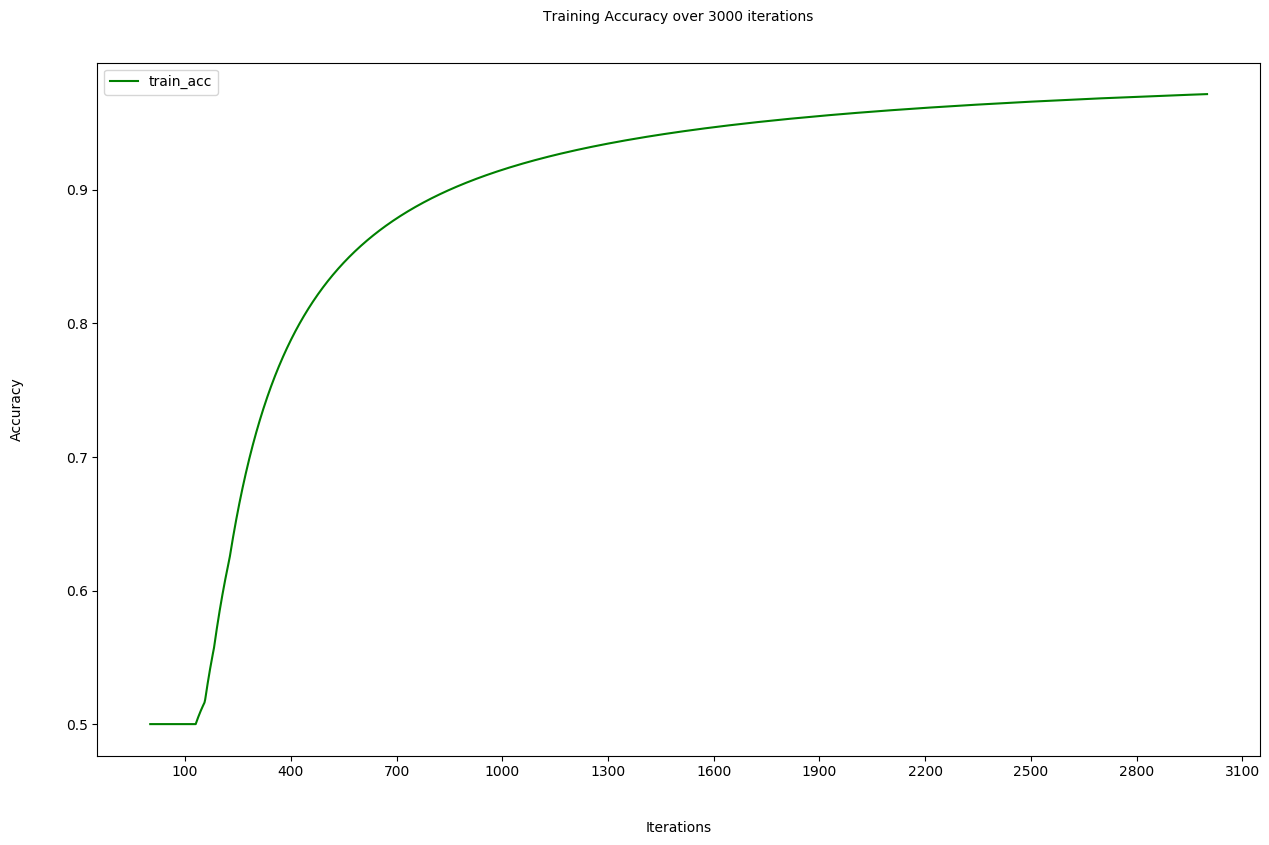
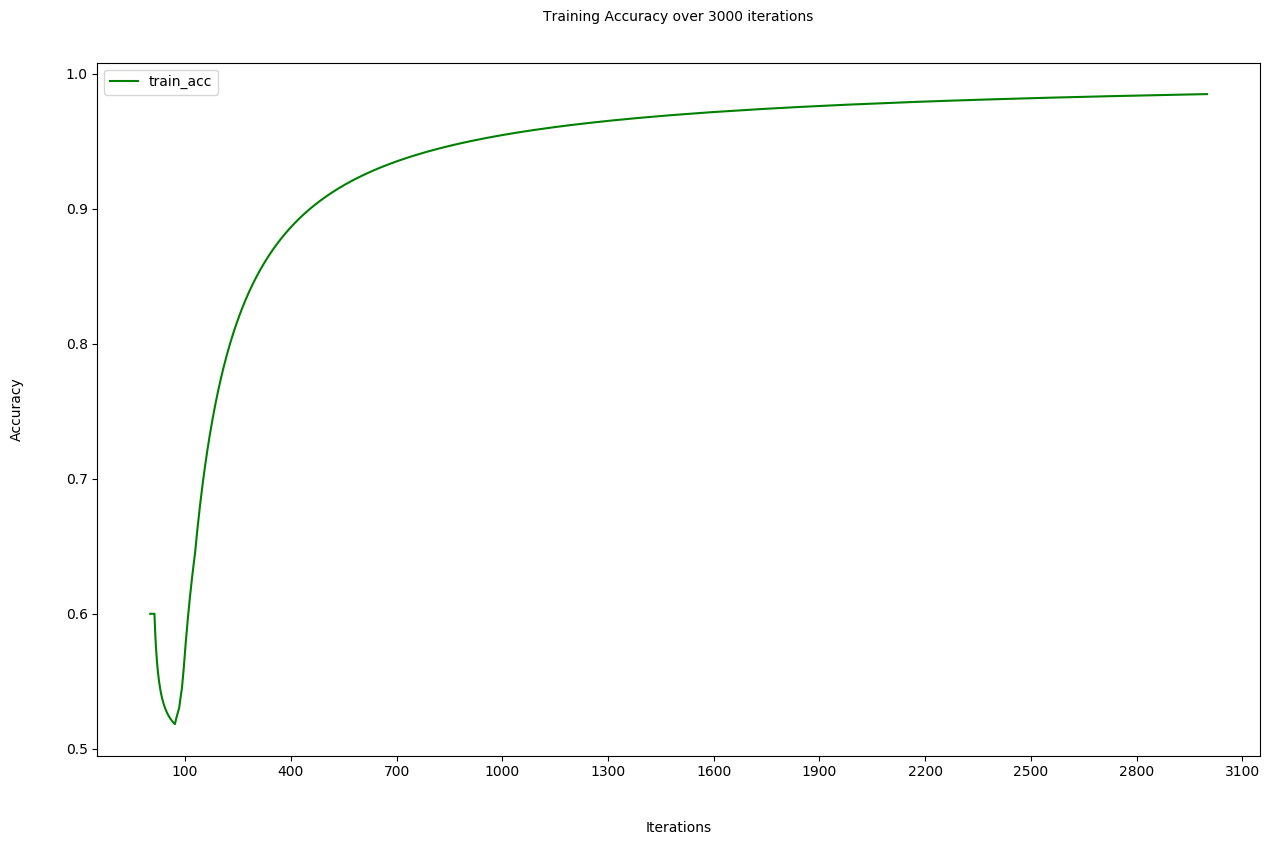
Implement matrix operations using OpenBLAS (its so much faster now :) )

diff --git a/src/utils/utils.c b/src/utils/utils.c
@@ -70,11 +70,41 @@ dARRAY * transpose(dARRAY * restrict Matrix){
   if(Matrix->shape[0]==1 && Matrix->shape[1]==1) return Matrix;
   dARRAY * matrix = (dARRAY*)malloc(sizeof(dARRAY));
   matrix->matrix = (float*)calloc(Matrix->shape[0]*Matrix->shape[1],sizeof(float));
-  omp_set_num_threads(8);
+  // openblas_set_num_threads(2);
+  // struct timeval start_gflops,finish_gflops;
+  // double start = omp_get_wtime();
+  // gettimeofday(&start_gflops, NULL);
+  #pragma omp task
+  cblas_somatcopy(CblasRowMajor,CblasTrans,Matrix->shape[0],Matrix->shape[1],1,Matrix->matrix,Matrix->shape[1],matrix->matrix,Matrix->shape[0]);
+  // gettimeofday(&finish_gflops, NULL);
+  // double end = omp_get_wtime();
+  // double duration = ((double)(finish_gflops.tv_sec-start_gflops.tv_sec)*1000000 + (double)(finish_gflops.tv_usec-start_gflops.tv_usec)) / 1000000;
+  // double gflops = 2.0 * Matrix->shape[0]*Matrix->shape[1];
+  // gflops = gflops/duration*1.0e-6;
+  // printf("Transpose took %lf seconds, %lf MFLOPS\n",(end-start),gflops);
+  matrix->shape[0] = Matrix->shape[1];
+  matrix->shape[1] = Matrix->shape[0];
+  return matrix;
+}
+
+
+
+dARRAY * transposem(dARRAY * restrict Matrix){
+  if(Matrix==NULL){
+    printf("\033[1;31mError:\033[93m Matrix is empty. Call transpose() only after intializing dARRAY object.\033[0m\n");
+    return NULL;
+  }
+  if(Matrix->shape[0]==1 && Matrix->shape[1]==1) return Matrix;
+  dARRAY * matrix = (dARRAY*)malloc(sizeof(dARRAY));
+  matrix->matrix = (float*)calloc(Matrix->shape[0]*Matrix->shape[1],sizeof(float));
+  omp_set_num_threads(2);
+  double start = omp_get_wtime();
   #pragma omp parallel for num_threads(8) shared(Matrix,matrix) schedule(static)
   for(int i=0;i<Matrix->shape[0];i++)
     for(int j=0;j<Matrix->shape[1];j++)
       matrix->matrix[j*Matrix->shape[0]+i] = Matrix->matrix[i*Matrix->shape[1]+j];
+  double end = omp_get_wtime();
+  printf("Transpose took %lf seconds\n",(end-start));
   matrix->shape[0] = Matrix->shape[1];
   matrix->shape[1] = Matrix->shape[0];
   return matrix;
@@ -88,6 +118,38 @@ dARRAY * transpose(dARRAY * restrict Matrix){
  * @return A pointer to the result of dot(MatrixA,MatrixB) 
 */
 dARRAY * dot(dARRAY * MatrixA, dARRAY * MatrixB){
+  if(MatrixA->shape[1]!=MatrixB->shape[0]){
+    printf("\033[1;31mError:\033[93m Shape error while performing dot(). Matrix dimensions do not align. %d(dim1) != %d(dim0)\033[0m\n",MatrixA->shape[1],MatrixB->shape[0]);
+    return NULL;
+  }
+  if(MatrixB == NULL || MatrixA == NULL){
+    printf("\033[1;31mError:\033[93m One of the input matrices is empty. Call dot() only after initializing dARRAY object\033[0m\n");
+    return NULL;
+  }
+  long long int m,n,k;
+  m = MatrixA->shape[0];
+  n = MatrixB->shape[1];
+  k = MatrixB->shape[0];
+  dARRAY * result = (dARRAY*)malloc(sizeof(dARRAY));
+  result->matrix = (float*)calloc(m*n,sizeof(float));
+  // openblas_set_num_threads(2);
+  // struct timeval start_gflops,finish_gflops;
+  // double start = omp_get_wtime();
+  // gettimeofday(&start_gflops, NULL);
+  #pragma omp task
+  cblas_sgemm(CblasRowMajor, CblasNoTrans, CblasNoTrans,m,n,k,1,MatrixA->matrix, k,MatrixB->matrix, n,0,result->matrix,n);
+  // gettimeofday(&finish_gflops, NULL);
+  // double end = omp_get_wtime();
+  // double duration = ((double)(finish_gflops.tv_sec-start_gflops.tv_sec)*1000000 + (double)(finish_gflops.tv_usec-start_gflops.tv_usec)) / 1000000;
+  // double gflops = 2.0 * m*n*k;
+  // gflops = gflops/duration*1.0e-6;
+  // printf("Dot Product took %lf seconds, %lf MFLOPS\n",(end-start),gflops);
+  result->shape[0] = MatrixA->shape[0];
+  result->shape[1] = MatrixB->shape[1];
+  return result;
+}
+
+dARRAY * dotm(dARRAY * MatrixA, dARRAY * MatrixB){
   if(MatrixA->shape[1]!=MatrixB->shape[0]){
     printf("\033[1;31mError:\033[93m Shape error while performing dot(). Matrix dimensions do not align. %d(dim1) != %d(dim0)\033[0m\n",MatrixA->shape[1],MatrixB->shape[0]);
     return NULL;
@@ -254,17 +316,33 @@ dARRAY * add(dARRAY * MatrixA, dARRAY * MatrixB){
   dARRAY * result = (dARRAY*)malloc(sizeof(dARRAY));
   result->matrix = (float*)calloc(MatrixA->shape[0]*MatrixA->shape[1],sizeof(float));
   if(x==y){
-    omp_set_num_threads(8);
-    #pragma omp parallel for num_threads(8) shared(MatrixA,MatrixB,result) schedule(static)
-    for(int i=0;i<MatrixA->shape[0]*MatrixA->shape[1];i++){
-      result->matrix[i] = MatrixA->matrix[i] + MatrixB->matrix[i];
-    }
+    // omp_set_num_threads(8);
+    // #pragma omp parallel for num_threads(8) shared(MatrixA,MatrixB,result) schedule(static)
+    // for(int i=0;i<MatrixA->shape[0]*MatrixA->shape[1];i++){
+    //   result->matrix[i] = MatrixA->matrix[i] + MatrixB->matrix[i];
+    // }
+    #pragma omp task
+    cblas_scopy(MatrixB->shape[0]*MatrixB->shape[1],MatrixB->matrix,1,result->matrix,1);
+    #pragma omp task
+    cblas_saxpy(MatrixA->shape[0]*MatrixA->shape[1],1,MatrixA->matrix,1,result->matrix,1);
   }
   else{
-    omp_set_num_threads(8);
-    #pragma omp parallel for num_threads(8) shared(MatrixA,MatrixB,bcast_arr,result) schedule(static)
-    for(int i=0;i<MatrixA->shape[0]*MatrixA->shape[1];i++)
-        result->matrix[i] = x>y ? MatrixA->matrix[i] + bcast_arr->matrix[i] : bcast_arr->matrix[i] + MatrixB->matrix[i];
+    // omp_set_num_threads(8);
+    // #pragma omp parallel for num_threads(8) shared(MatrixA,MatrixB,bcast_arr,result) schedule(static)
+    // for(int i=0;i<MatrixA->shape[0]*MatrixA->shape[1];i++)
+    //     result->matrix[i] = x>y ? MatrixA->matrix[i] + bcast_arr->matrix[i] : bcast_arr->matrix[i] + MatrixB->matrix[i];
+    if(x>y){
+      #pragma omp task
+      cblas_scopy(MatrixA->shape[0]*MatrixA->shape[1],bcast_arr->matrix,1,result->matrix,1);
+      #pragma omp task
+      cblas_saxpy(MatrixA->shape[0]*MatrixA->shape[1],1,MatrixA->matrix,1,result->matrix,1);
+    }
+    else{
+      #pragma omp task
+      cblas_scopy(MatrixB->shape[0]*MatrixB->shape[1],MatrixB->matrix,1,result->matrix,1);
+      #pragma omp task
+      cblas_saxpy(MatrixA->shape[0]*MatrixA->shape[1],1,bcast_arr->matrix,1,result->matrix,1);
+    }
   }
   if(bcast_arr!=NULL)
   free2d(bcast_arr);
@@ -305,17 +383,34 @@ dARRAY * subtract(dARRAY * MatrixA, dARRAY * MatrixB){
   dARRAY * result = (dARRAY*)malloc(sizeof(dARRAY));
   result->matrix = (float*)calloc(MatrixA->shape[0]*MatrixA->shape[1],sizeof(float));
   if(x==y){
-    omp_set_num_threads(8);
-    #pragma omp parallel for num_threads(8) shared(MatrixA,MatrixB,result) schedule(static)
-    for(int i=0;i<MatrixA->shape[0]*MatrixA->shape[1];i++){
-      result->matrix[i] = MatrixA->matrix[i] - MatrixB->matrix[i];
-    }
+    // omp_set_num_threads(8);
+    // #pragma omp parallel for num_threads(8) shared(MatrixA,MatrixB,result) schedule(static)
+    // for(int i=0;i<MatrixA->shape[0]*MatrixA->shape[1];i++){
+    //   result->matrix[i] = MatrixA->matrix[i] + MatrixB->matrix[i];
+    // }
+    #pragma omp task
+    cblas_scopy(MatrixA->shape[0]*MatrixA->shape[1],MatrixA->matrix,1,result->matrix,1);
+    #pragma omp task
+    cblas_saxpy(MatrixB->shape[0]*MatrixB->shape[1],-1,MatrixB->matrix,1,result->matrix,1);
   }
   else{
-    omp_set_num_threads(8);
-    #pragma omp parallel for num_threads(8) shared(MatrixA,MatrixB,bcast_arr,result) schedule(static)
-    for(int i=0;i<MatrixA->shape[0]*MatrixA->shape[1];i++)
-        result->matrix[i] = x>y ? MatrixA->matrix[i] - bcast_arr->matrix[i] : bcast_arr->matrix[i] - MatrixB->matrix[i];
+    // omp_set_num_threads(8);
+    // #pragma omp parallel for num_threads(8) shared(MatrixA,MatrixB,bcast_arr,result) schedule(static)
+    // for(int i=0;i<MatrixA->shape[0]*MatrixA->shape[1];i++)
+    //     result->matrix[i] = x>y ? MatrixA->matrix[i] + bcast_arr->matrix[i] : bcast_arr->matrix[i] + MatrixB->matrix[i];
+    if(x>y){
+      // openblas_set_num_threads(8);
+      #pragma omp task
+      cblas_scopy(MatrixA->shape[0]*MatrixA->shape[1],MatrixA->matrix,1,result->matrix,1);
+      #pragma omp task
+      cblas_saxpy(MatrixA->shape[0]*MatrixA->shape[1],-1,bcast_arr->matrix,1,result->matrix,1);
+    }
+    else{
+      #pragma omp task
+      cblas_scopy(bcast_arr->shape[0]*bcast_arr->shape[1],bcast_arr->matrix,1,result->matrix,1);
+      #pragma omp task
+      cblas_saxpy(MatrixA->shape[0]*MatrixA->shape[1],-1,MatrixB->matrix,1,result->matrix,1);
+    }
   }
   if(bcast_arr!=NULL)
     free2d(bcast_arr);
@@ -337,6 +432,8 @@ dARRAY * addScalar(dARRAY * matrix, float scalar){
     printf("\033[1;31mError:\033[93m Matrix is empty. Call addScalar() only after intializing dARRAY object.\033[0m\n");
     return NULL;
   }
+  // float * mul_matrix = (float*)calloc(matrix->shape[0]*matrix->shape[1],sizeof(float));
+
   dARRAY * result = (dARRAY*)malloc(sizeof(dARRAY));
   result->matrix = (float*)calloc(matrix->shape[0]*matrix->shape[1],sizeof(float));
   omp_set_num_threads(8);
@@ -396,6 +493,20 @@ dARRAY * mulScalar(dARRAY * matrix, float scalar){
   result->shape[1] = matrix->shape[1];
   return result;
 }
+dARRAY * mulScalarm(dARRAY * matrix, float scalar){
+  if(matrix==NULL){
+    printf("\033[1;31mError:\033[93m Matrix is empty. Call divScalar() only after intializing dARRAY object.\033[0m\n");
+    return NULL;
+  }
+  float * div_mat = (float*)calloc(matrix->shape[0]*matrix->shape[1],sizeof(float));
+  cblas_sscal(matrix->shape[0]*matrix->shape[1],scalar,matrix->matrix,1);
+  cblas_scopy(matrix->shape[0]*matrix->shape[1],matrix->matrix,1,div_mat,1);
+  dARRAY * result = (dARRAY*)malloc(sizeof(dARRAY));
+  result->matrix = div_mat;
+  result->shape[0] = matrix->shape[0];
+  result->shape[1] = matrix->shape[1];
+  return result;
+}
 
 /**!
  * Function divides a scalar value with each element of a matrix. 
@@ -420,6 +531,22 @@ dARRAY * divScalar(dARRAY * matrix, float scalar){
   result->shape[1] = matrix->shape[1];
   return result;
 }
+dARRAY * divScalarm(dARRAY * matrix, float scalar){
+  if(matrix==NULL){
+    printf("\033[1;31mError:\033[93m Matrix is empty. Call divScalar() only after intializing dARRAY object.\033[0m\n");
+    return NULL;
+  }
+  float * div_mat = (float*)calloc(matrix->shape[0]*matrix->shape[1],sizeof(float));
+  cblas_sscal(matrix->shape[0]*matrix->shape[1],(1/scalar),matrix->matrix,1);
+  cblas_scopy(matrix->shape[0]*matrix->shape[1],matrix->matrix,1,div_mat,1);
+  dARRAY * result = (dARRAY*)malloc(sizeof(dARRAY));
+  result->matrix = div_mat;
+  result->shape[0] = matrix->shape[0];
+  result->shape[1] = matrix->shape[1];
+  return result;
+}
+
+
 
 /**!
  * Function raises the elements of a matrix to the specified power. 
@@ -544,15 +671,21 @@ dARRAY * sum(dARRAY * matrix, int axis){
     temp=NULL;
   }
   else if(axis==1){
-    new->matrix = (float*)calloc(matrix->shape[0],sizeof(float));
-    omp_set_num_threads(8);
-    #pragma omp parallel for num_threads(8) collapse(1)
-    for(int i=0;i<matrix->shape[0];i++){
-      float temp = 0.0;
-      for(int j=0;j<matrix->shape[1];j++){
-        temp += matrix->matrix[i*matrix->shape[1]+j];
-      }
-      new->matrix[i] = temp;
+    // if(matrix->shape[0]==1){
+    //   new->matrix = (float*)calloc(matrix->shape[0],sizeof(float));
+    //   new->matrix[0] = cblas_dasum(matrix->shape[0]*matrix->shape[1],matrix->matrix,1.0);
+    // }
+    // else{
+      new->matrix = (float*)calloc(matrix->shape[0],sizeof(float));
+      omp_set_num_threads(8);
+      #pragma omp parallel for num_threads(8) collapse(1)
+      for(int i=0;i<matrix->shape[0];i++){
+        float temp = 0.0;
+        for(int j=0;j<matrix->shape[1];j++){
+          temp += matrix->matrix[i*matrix->shape[1]+j];
+        }
+        new->matrix[i] = temp;
+      // }
     }
     new->shape[0] = matrix->shape[0];
     new->shape[1] = 1;

diff --git a/src/test/test_network.c b/src/test/test_network.c
@@ -25,7 +25,7 @@ int main(){
   dARRAY * y_test = load_y_test(y_test_dims);
 
   Input(.layer_size=12288);
-  Dense(.layer_size=10,.activation="relu",.initializer="he",.layer_type="hidden");
+  Dense(.layer_size=64,.activation="relu",.initializer="he",.layer_type="hidden");
   Dense(.layer_size=32,.activation="relu",.initializer="he",.layer_type="hidden");
   Dense(.layer_size=16,.activation="relu",.layer_type="hidden");
   Dense(.layer_size=1,.activation="sigmoid",.initializer="random",.layer_type="output");

diff --git a/src/utils/utils.h b/src/utils/utils.h
@@ -9,6 +9,8 @@
 #include <string.h>
 #include <unistd.h>
 #include <errno.h>
+#include <cblas.h>
+#include <sys/time.h>
 
 #ifdef __cplusplus
 extern "C"{
